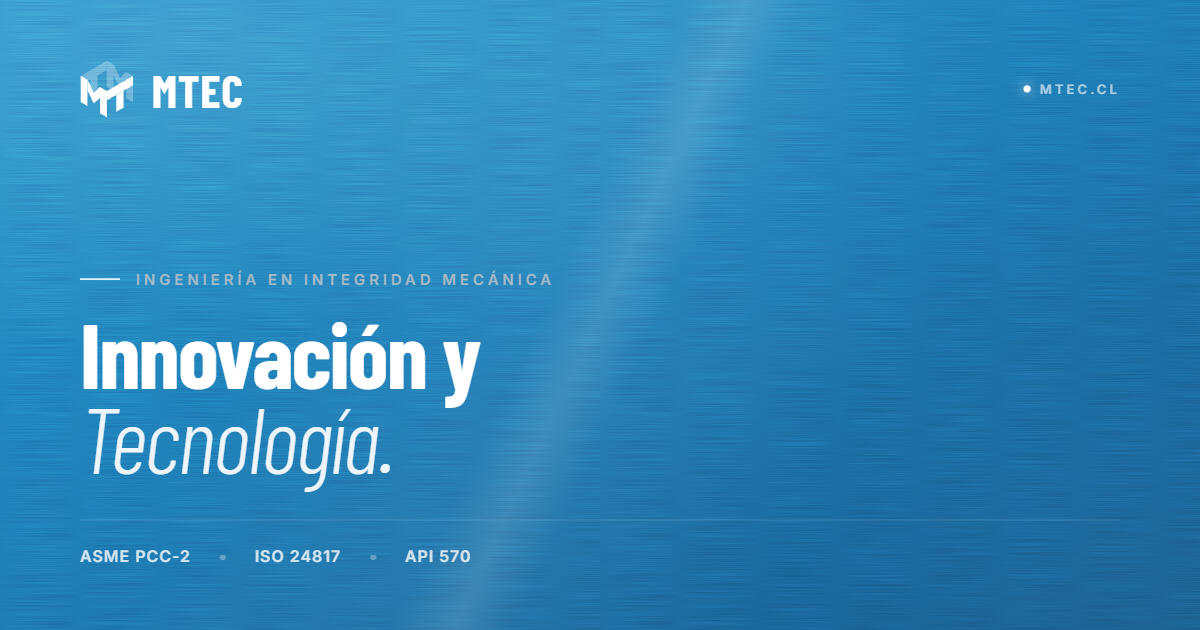
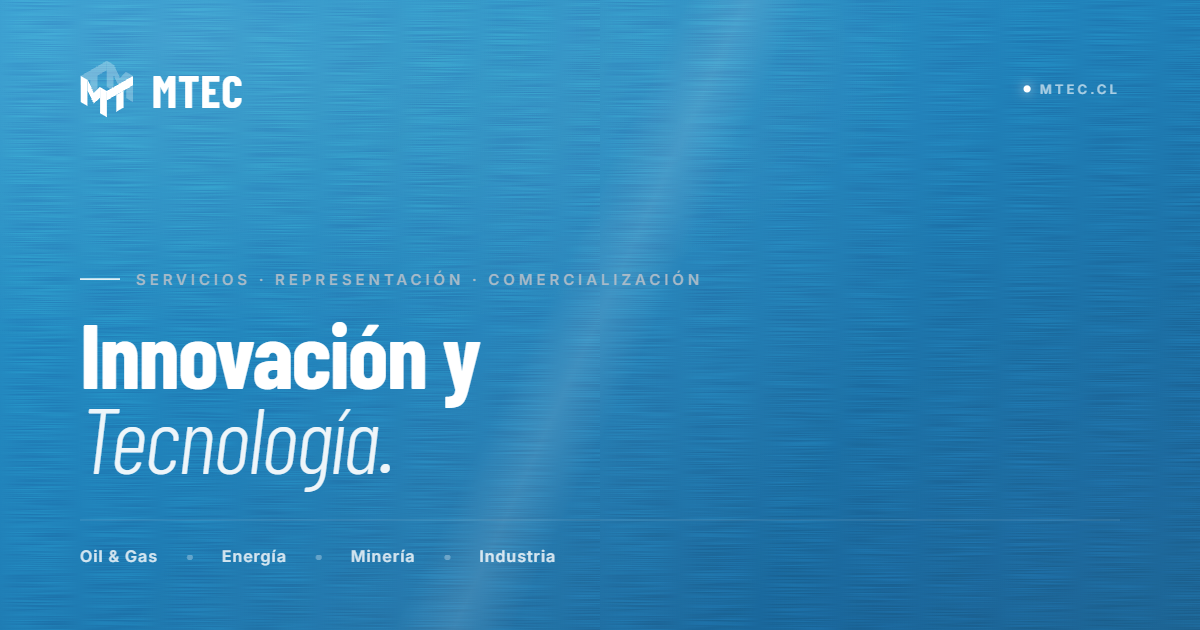
fix(seo): align OG image + meta descriptions with rebrand
Replace outdated "integridad mecánica / rehabilitación de tuberías"
positioning with the current business lines and sectors.

- OG image (template + rendered PNG): eyebrow → "Servicios ·
  Representación · Comercialización"; badges → "Oil & Gas · Energía ·
  Minería · Industria". Headline unchanged.
- index.html: description, og:description, twitter:description updated.
- footer.html JSON-LD Organization.description updated to match.

Changed region(s): [[0.0925, 0.4222, 0.5858, 0.4524], [0.0617, 0.8746, 0.4625, 0.9048]]

diff --git a/index.html b/index.html
@@ -4,13 +4,13 @@
 <meta charset="UTF-8">
 <meta name="viewport" content="width=device-width, initial-scale=1.0">
 <title>MTEC — Innovación y Tecnología</title>
-<meta name="description" content="Ingeniería chilena en integridad mecánica. Rehabilitación de tuberías y activos críticos sin paro de operación. Certificaciones ASME PCC-2, ISO 24817 y API.">
+<meta name="description" content="Servicios especializados, representación y comercialización para la gran industria chilena. Continuidad operacional en oil &amp; gas, energía, minería e industria.">
 <link rel="canonical" href="https://mtec.cl/">
 <meta property="og:type" content="website">
 <meta property="og:site_name" content="MTEC">
 <meta property="og:locale" content="es_CL">
 <meta property="og:title" content="MTEC — Innovación y Tecnología">
-<meta property="og:description" content="Ingeniería chilena en integridad mecánica. Rehabilitación de tuberías y activos críticos sin paro de operación.">
+<meta property="og:description" content="Servicios especializados, representación y comercialización para la gran industria chilena. Continuidad operacional en oil &amp; gas, energía, minería e industria.">
 <meta property="og:url" content="https://mtec.cl/">
 <meta property="og:image" content="https://mtec.cl/brand_assets/og-image.png">
 <meta property="og:image:width" content="1200">
@@ -18,7 +18,7 @@
 <meta property="og:image:alt" content="MTEC — ingeniería industrial">
 <meta name="twitter:card" content="summary_large_image">
 <meta name="twitter:title" content="MTEC — Innovación y Tecnología">
-<meta name="twitter:description" content="Ingeniería chilena en integridad mecánica. Rehabilitación de tuberías y activos críticos sin paro de operación.">
+<meta name="twitter:description" content="Servicios especializados, representación y comercialización para la gran industria chilena. Continuidad operacional en oil &amp; gas, energía, minería e industria.">
 <meta name="twitter:image" content="https://mtec.cl/brand_assets/og-image.png">
 <link rel="icon" type="image/svg+xml" href="/favicon.svg">
 <link rel="icon" type="image/png" sizes="32x32" href="/favicon-32.png">

diff --git a/brand_assets/og-template.html b/brand_assets/og-template.html
@@ -114,14 +114,16 @@
       </div>
 
       <div class="og-mid">
-        <span class="og-eyebrow">Ingeniería en integridad mecánica</span>
+        <span class="og-eyebrow">Servicios · Representación · Comercialización</span>
         <h1 class="og-headline">Innovación y<em>Tecnología.</em></h1>
         <div class="og-bottom">
-          <span class="og-badge">ASME PCC-2</span>
+          <span class="og-badge">Oil &amp; Gas</span>
           <span class="og-badge-sep">●</span>
-          <span class="og-badge">ISO 24817</span>
+          <span class="og-badge">Energía</span>
           <span class="og-badge-sep">●</span>
-          <span class="og-badge">API 570</span>
+          <span class="og-badge">Minería</span>
+          <span class="og-badge-sep">●</span>
+          <span class="og-badge">Industria</span>
         </div>
       </div>
     </div>

diff --git a/partials/footer.html b/partials/footer.html
@@ -79,7 +79,7 @@
   "url": "https://mtec.cl/",
   "logo": "https://mtec.cl/deliverables/logos/PNG/Logo%20MTEC_final_A%20color%201.png",
   "image": "https://mtec.cl/brand_assets/og-image.png",
-  "description": "Ingeniería chilena en integridad mecánica. Rehabilitación de tuberías y activos críticos sin paro de operación. Servicios certificados ASME PCC-2, ISO 24817 y API.",
+  "description": "Servicios especializados, representación y comercialización para la gran industria chilena. Continuidad operacional en oil & gas, energía, minería e industria.",
   "email": "contacto@mtec.cl",
   "telephone": "+56-32-2818996",
   "address": {
